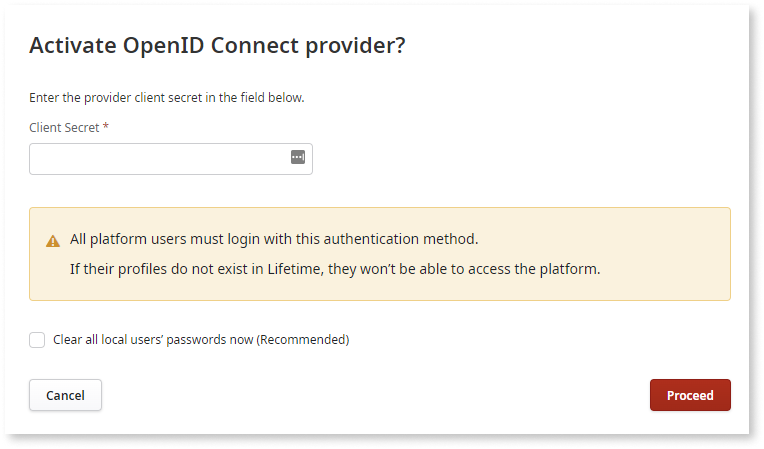
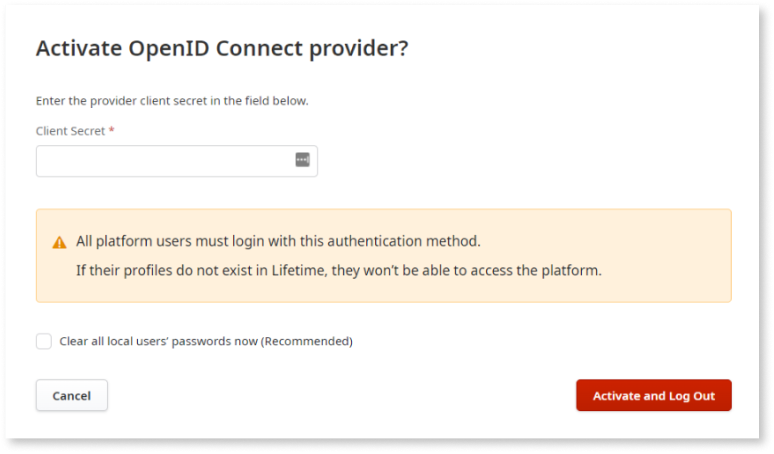
Update externalidp tk8529
* Updated configuration steps and added screenshots

* New screenshots

diff --git a/src/managing-the-applications-lifecycle/secure-the-applications/external-idp/external-idp-lifetime.md b/src/managing-the-applications-lifecycle/secure-the-applications/external-idp/external-idp-lifetime.md
@@ -48,6 +48,8 @@ To configure the external provider (OIDC) in LifeTime, follow these steps:
         
     1. **Username Claim**: Claim used to match the username field of the user configured in LifeTime. By default, the claim is ``email``. For more information, see [Standard Claims](https://openid.net/specs/openid-connect-core-1_0.html#StandardClaims).
 
+        **Note**: For Azure and OKTA use ``preferred_username`` as the **Username Claim** value.
+
     ![Enter authentication settings](images/authentication-settings-lt.png)
 
 1. Click **Save Changes**.
@@ -64,9 +66,14 @@ To configure the external provider (OIDC) in LifeTime, follow these steps:
 
     For more information about clearing user’s passwords, see [Clearing built-in password credentials](#clearing-built-in-password-credentials).
 
-1. Click **Proceed**. 
+1. Click **Activate and Log Out**. 
 
     ![Click Proceed](images/client-secret-lt.png)
+
+Once activated, you are logged out of the current session and redirected to the login page of the currently active OIDC provider login page.
+
+**Note**: Once the OpenId Connect provider is activated, users  can no longer use the fallback built-in authentication mechanism. In the case of any issues with the external IdP, designated break-glass users, also known as local admins, can login using a username and password to deactivate the OpenID Connect provider and enable any alternative authentication mechanism.
+
 
 ## Deactivating the external identity provider
 
@@ -102,13 +109,13 @@ Once you add the local administrator, you can log in using `<domain>/LifeTimeSDK
 
 ### Clearing built-in password credentials
 
-You can clear a user’s built-in password credentials in one of the following ways. Doing this prevents users from using the fallback authentication. 
+Once the OpenID Connect provider is activated, the fallback of using the built-in provider is no longer available. As the built-in user credentials are not going to be used, we recommend clearing the built-in user passwords. In the case of any issues with the external IdP, designated break-glass users, also known as local admins, can login using a username and password to deactivate the OpenID Connect provider and enable any alternative authentication mechanism.
 
 * **Option 1**
 
-    When activating the OIDC provider, in the **Activate OpenID Connect provider** pop-up, select the **Clear all local users passwords now (Recommended)** checkbox and click **Proceed**.
+    When activating the OIDC provider, in the **Activate OpenID Connect provider** pop-up, select the **Clear all local users passwords now (Recommended)** checkbox and click **Activate and Log Out**.
 
-    ![Activate provider](images/activate-provider-lt.png)
+    ![Activate provider](images/client-secret-lt.png)
 
 * **Option 2**
 
